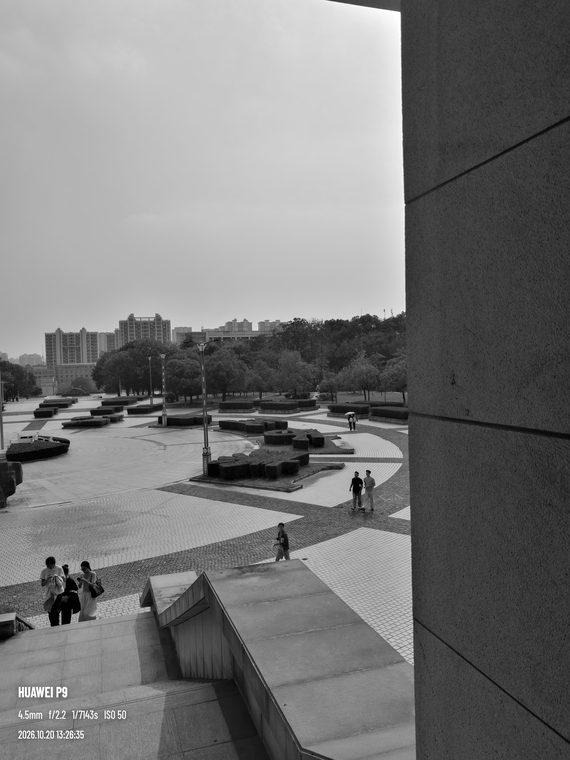
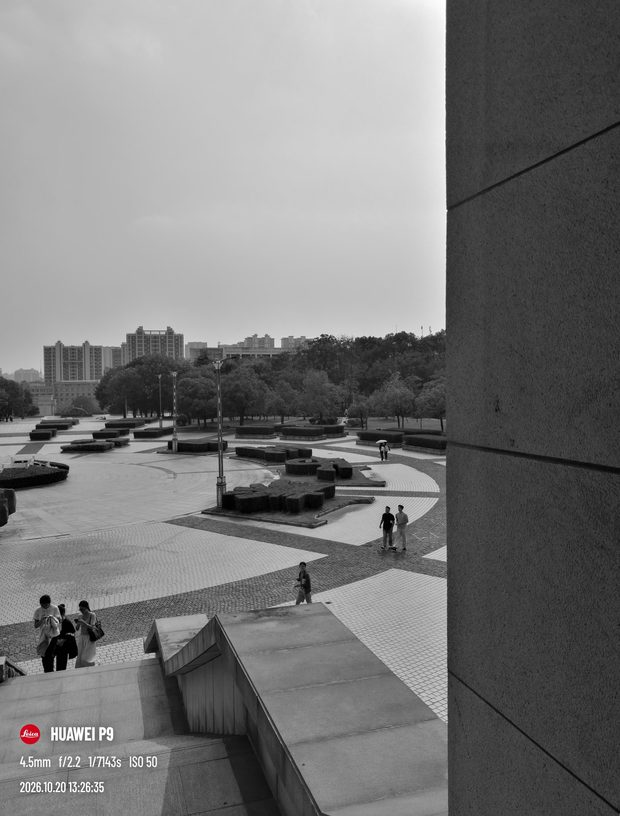
feat(官网): 开场换成黑白竖幅；成片删首图；图片支持点击放大

diff --git a/welcome/index.html b/welcome/index.html
@@ -63,6 +63,7 @@
 
   /* 图片与图注 */
   figure{margin:44px 0 0}
+  figure.hero{max-width:440px;margin:44px auto 0}
   figure img{width:100%;height:auto;display:block;border:1px solid var(--hair)}
   figcaption{font-size:13px;color:var(--muted);margin-top:10px}
 
@@ -82,6 +83,16 @@
     border:1px solid var(--hair);background:#ece8de}
   .tpl b{display:block;font-weight:500;color:var(--ink);margin-top:9px;font-size:14.5px}
   .tpl span{display:block;color:var(--muted);font-size:12.5px;line-height:1.6}
+
+  /* 点击放大 */
+  .gallery img,figure img{cursor:zoom-in}
+  #zoom{position:fixed;inset:0;background:rgba(20,19,15,.94);display:none;
+    align-items:center;justify-content:center;z-index:99;padding:24px;cursor:zoom-out}
+  #zoom.on{display:flex}
+  #zoom img{max-width:100%;max-height:100%;box-shadow:0 8px 40px rgba(0,0,0,.5)}
+  #zoom .close{position:absolute;top:16px;right:20px;color:#e9e5da;font-size:15px;
+    letter-spacing:.08em;background:none;border:1px solid rgba(233,229,218,.35);
+    padding:7px 13px;cursor:pointer}
 
   /* 成片墙 */
   .gallery{columns:3;column-gap:16px;margin-top:6px}
@@ -155,9 +166,9 @@
     </p>
   </div>
 
-  <figure>
-    <img src="img/hero.jpg" alt="白条版式示例：一张寺庙照片，底部白条写着 HUAWEI P9 与 4.5mm f/2.2 1/841s ISO 50" loading="lazy">
-    <figcaption>白条版式。照片、机型、参数都在，观感和官方样张接近。</figcaption>
+  <figure class="hero">
+    <img src="img/hero-bw.jpg" alt="黑白广场照片，左下角是 Red 标与 HUAWEI P9、4.5mm f/2.2 1/714s ISO 50、拍摄时间" loading="lazy" data-zoom>
+    <figcaption>黑白 + 左下角标。参数落在画面角落，不挡主体。</figcaption>
   </figure>
 
   <section>
@@ -179,15 +190,14 @@
     <div class="rule"></div>
     <p class="sub">下面都是在手机上导出的原图，没有额外修图。</p>
     <div class="gallery">
-      <img src="img/g1.jpg" alt="街景成片" loading="lazy">
-      <img src="img/g2.jpg" alt="黑白广场成片" loading="lazy">
-      <img src="img/g3.jpg" alt="教学楼前的行人" loading="lazy">
-      <img src="img/g5.jpg" alt="街口建筑群" loading="lazy">
-      <img src="img/g4.jpg" alt="红砖广场" loading="lazy">
-      <img src="img/g6.jpg" alt="大字版式街景" loading="lazy">
-      <img src="img/g7.jpg" alt="寺庙白条版式" loading="lazy">
-      <img src="img/g8.jpg" alt="仰拍树冠" loading="lazy">
-      <img src="img/g9.jpg" alt="寺院大字版式" loading="lazy">
+      <img src="img/g3.jpg" alt="教学楼前的行人" loading="lazy" data-zoom>
+      <img src="img/g2.jpg" alt="黑白广场" loading="lazy" data-zoom>
+      <img src="img/g5.jpg" alt="街口建筑群" loading="lazy" data-zoom>
+      <img src="img/g4.jpg" alt="红砖广场" loading="lazy" data-zoom>
+      <img src="img/g6.jpg" alt="大字版式街景" loading="lazy" data-zoom>
+      <img src="img/g7.jpg" alt="寺庙白条版式" loading="lazy" data-zoom>
+      <img src="img/g8.jpg" alt="仰拍树冠" loading="lazy" data-zoom>
+      <img src="img/g9.jpg" alt="寺院大字版式" loading="lazy" data-zoom>
     </div>
   </section>
 
@@ -267,5 +277,33 @@
   </footer>
 
 </div>
+<div id="zoom" role="dialog" aria-label="查看大图"><button class="close" type="button">关闭 ESC</button><img alt=""></div>
+<script>
+  (function () {
+    var box = document.getElementById('zoom');
+    var pic = box.querySelector('img');
+    function open(src, alt) {
+      pic.src = src; pic.alt = alt || '';
+      box.classList.add('on');
+      document.body.style.overflow = 'hidden';
+    }
+    function close() {
+      box.classList.remove('on');
+      pic.removeAttribute('src');
+      document.body.style.overflow = '';
+    }
+    document.addEventListener('click', function (e) {
+      var t = e.target;
+      if (t.tagName === 'IMG' && t.hasAttribute('data-zoom')) {
+        open(t.currentSrc || t.src, t.alt);
+        return;
+      }
+      if (box.classList.contains('on')) close();
+    });
+    document.addEventListener('keydown', function (e) {
+      if (e.key === 'Escape' && box.classList.contains('on')) close();
+    });
+  })();
+</script>
 </body>
 </html>
